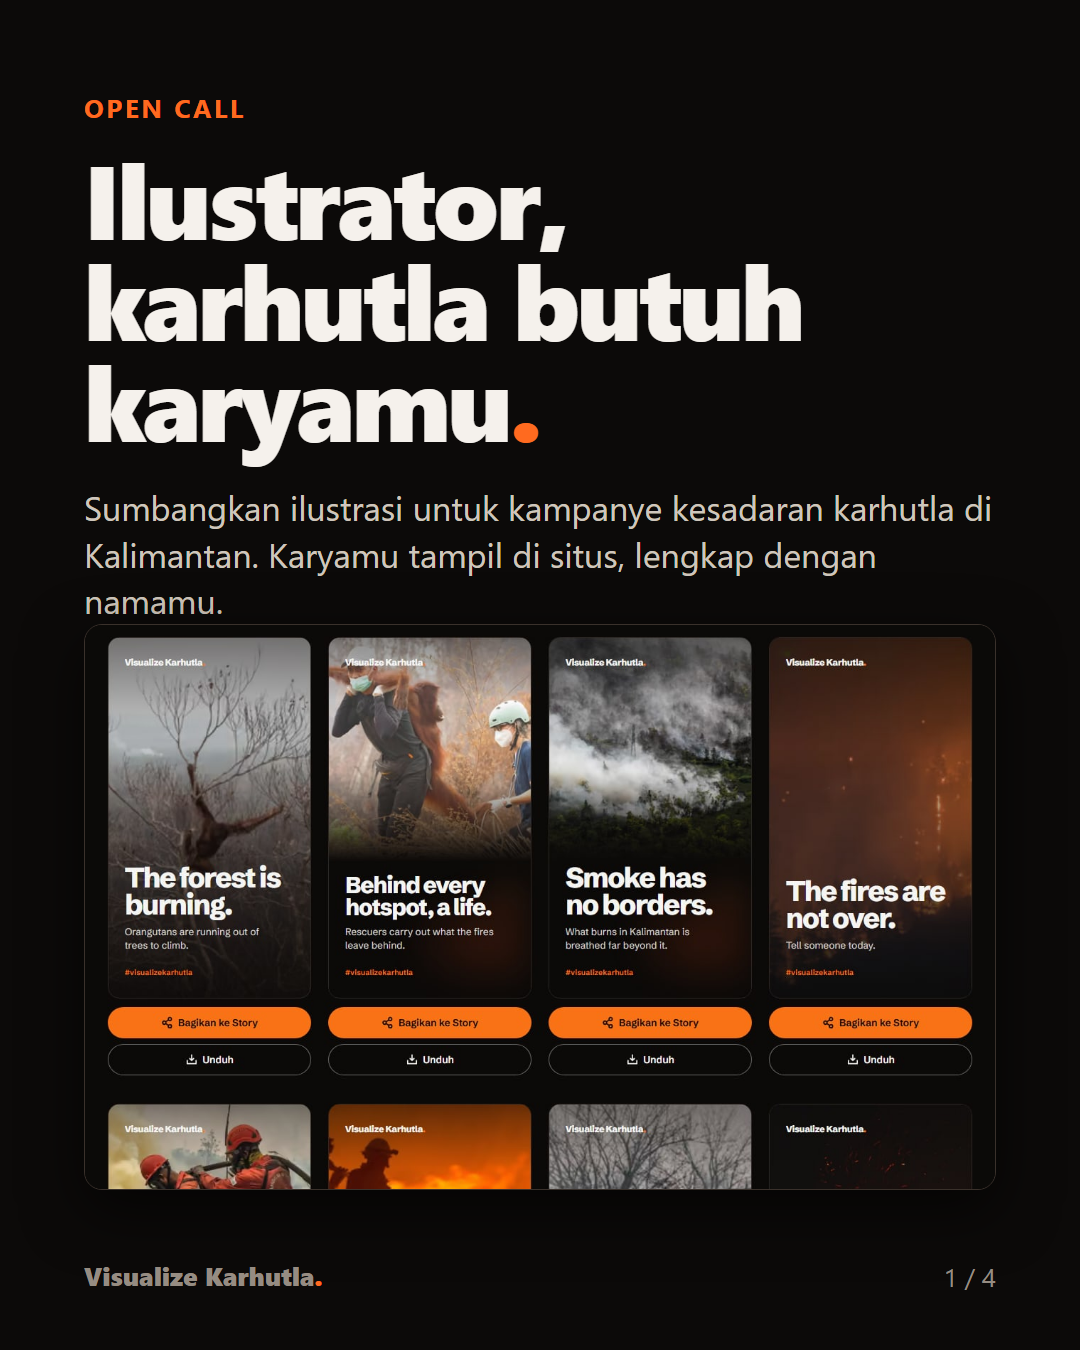
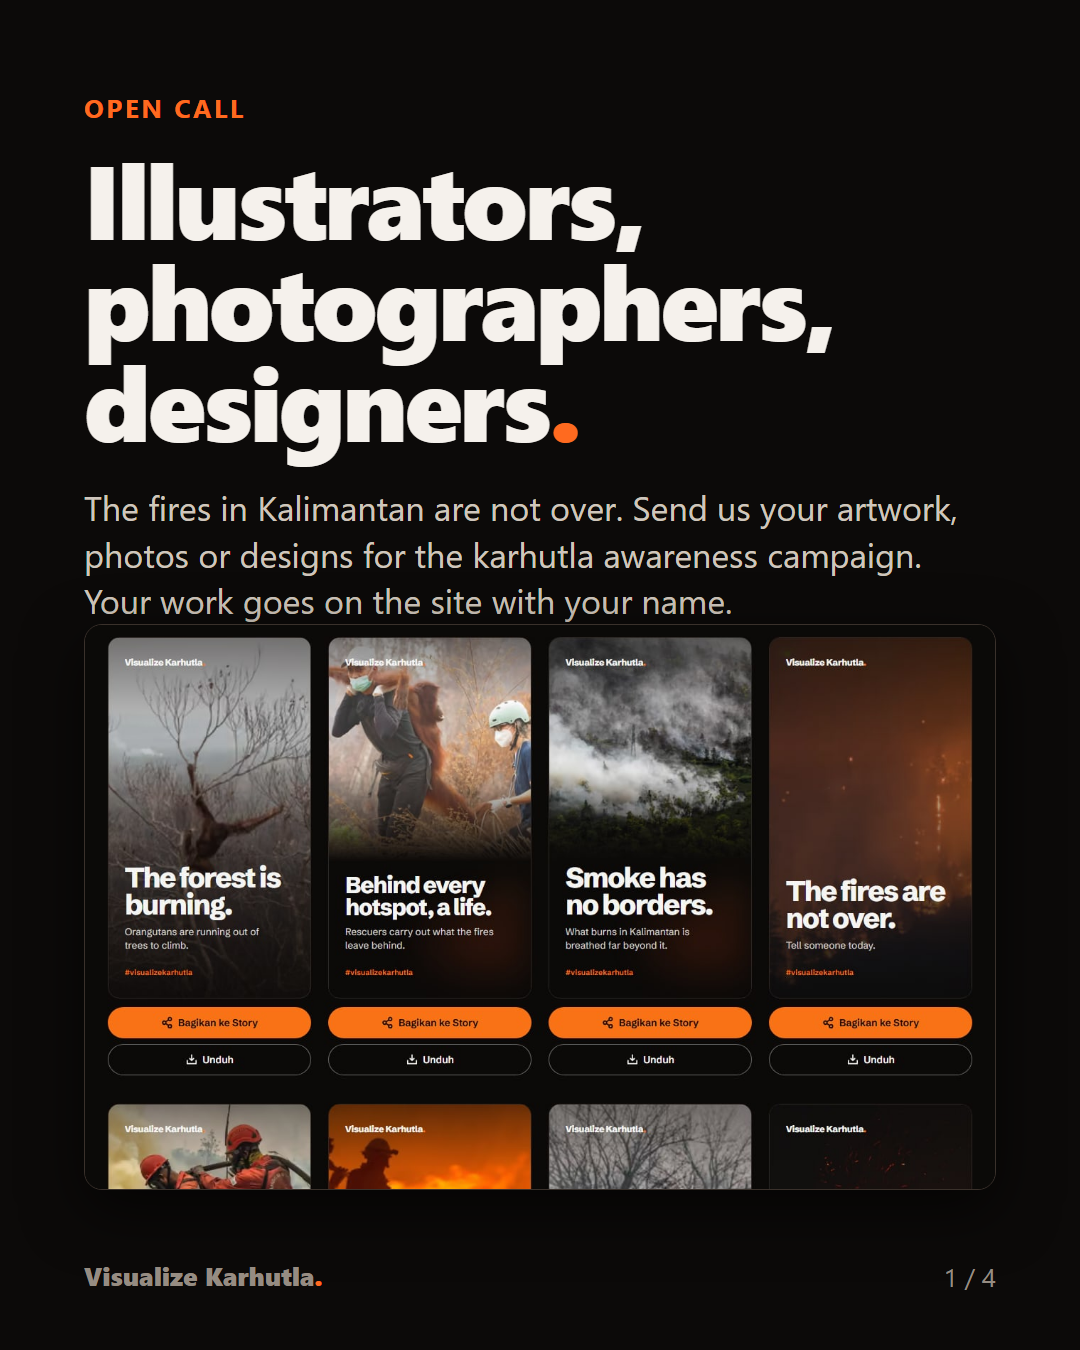
Open call: slide 1 berbahasa Inggris; ajakan mencakup fotografer dan desainer grafis

Changed region(s): [[0.0611, 0.1244, 0.9167, 0.4667]]

diff --git a/docs/outreach/slides.html b/docs/outreach/slides.html
@@ -24,8 +24,8 @@ p,li{font-size:34px;line-height:1.38;color:var(--fg2)}b{color:var(--fg)}
 .flow{display:grid;gap:18px;margin-top:44px}.flow div{display:grid;grid-template-columns:70px 1fr;gap:18px;align-items:center;background:var(--ink2);border:1px solid var(--line);border-radius:18px;padding:22px 26px}
 .flow em{font-style:normal;font-weight:800;color:var(--ember);font-size:40px}.flow p{font-size:29px}
 .url{font-size:38px;font-weight:800;color:var(--ember);border-left:8px solid var(--ember);padding-left:24px;margin-top:34px}
-</style></head><body><section class="slide"><div class="k">Open call</div><h1>Ilustrator,<br>karhutla butuh<br>karyamu<i>.</i></h1>
-<p style="margin-top:34px">Sumbangkan ilustrasi untuk kampanye kesadaran karhutla di Kalimantan. Karyamu tampil di situs, lengkap dengan namamu.</p>
+</style></head><body><section class="slide"><div class="k">Open call</div><h1>Illustrators,<br>photographers,<br>designers<i>.</i></h1>
+<p style="margin-top:34px">The fires in Kalimantan are not over. Send us your artwork, photos or designs for the karhutla awareness campaign. Your work goes on the site with your name.</p>
 <div class="shot" style="margin-top:auto;margin-bottom:70px"><img src="img/templates-grid.jpg" alt=""></div>
 <div class="wm">Visualize Karhutla<i>.</i></div><div class="pg">1 / 4</div></section><section class="slide"><div class="k">Langkah 1</div><h2>Buka halaman<br>Kontribusi<i>.</i></h2>
 <ol class="steps"><li>Buka <b>harryrosianto.github.io/visualize-karhutla/kontribusi</b></li><li>Cari <b>"Sumbang templat visual"</b>, lalu tekan <b>Kirim templat</b>.</li></ol>
@@ -39,7 +39,7 @@ p,li{font-size:34px;line-height:1.38;color:var(--fg2)}b{color:var(--fg)}
 <div class="c"><span>&#10003;</span>Karya ini buatan saya sendiri.</div><div class="c"><span>&#10003;</span>Boleh dipakai gratis untuk kampanye karhutla dengan kredit.</div></div>
 <p class="cap">Ilustrasi kolom formulir (bukan tangkapan layar asli). Perlu akun GitHub gratis.</p>
 <div class="wm">Visualize Karhutla<i>.</i></div><div class="pg">3 / 4</div></section><section class="slide"><div class="k">Ketentuan dan alur</div><h2>Bebas ukuran,<br>ditinjau dulu<i>.</i></h2>
-<div class="rules"><div><b>Ukuran dan rasio bebas</b><p>Story 9:16, lanskap desktop, atau lainnya. PNG, JPG, WebP, GIF; maksimal 12 MB.</p></div></div>
+<div class="rules"><div><b>Ilustrasi, foto, atau desain</b><p>Ukuran dan rasio bebas: Story 9:16, lanskap desktop, atau lainnya. PNG, JPG, WebP, GIF; maksimal 12 MB.</p></div></div>
 <div class="flow"><div><em>1</em><p><b>Kirim</b> formulirmu di GitHub.</p></div><div><em>2</em><p><b>Ditinjau</b> pemelihara sebelum tayang.</p></div><div><em>3</em><p><b>Tayang</b> di halaman Templat Story dengan namamu.</p></div></div>
 <div class="url">harryrosianto.github.io/visualize-karhutla/templat</div>
 <div class="wm">#visualizekarhutla</div><div class="pg">4 / 4</div></section></body></html>

diff --git a/docs/outreach/thread.md b/docs/outreach/thread.md
@@ -1,4 +1,4 @@
-# Open call untuk ilustrator: thread (X / Threads)
+# Open call untuk ilustrator, fotografer, dan desainer: thread (X / Threads)
 
 **Lampiran:** `img/slide-1.png` sampai `img/slide-4.png` pada postingan pertama (X menerima 4 gambar; Threads juga bisa carousel). Postingan lain hanya teks.
 
@@ -9,17 +9,17 @@ Batas X: 280 karakter per postingan (tautan dihitung 23). Semua postingan di baw
 **1/6**
 
 ```
-Panggilan untuk ilustrator 🎨
+Panggilan untuk ilustrator, fotografer, dan desainer grafis 🎨📷
 
 Karhutla di Kalimantan belum berakhir: 252.279 titik panas terdeteksi sepanjang 2026 (NASA FIRMS, per 12 Oktober).
 
-Kami butuh karyamu agar lebih banyak orang peduli. Karyamu tampil di situs, lengkap dengan namamu. 🧵
+Kami butuh karyamu agar lebih banyak orang peduli. Karya tampil di situs lengkap dengan namamu. 🧵
 ```
 
 **2/6**
 
 ```
-Yang kami cari: ilustrasi atau desain bertema karhutla, hutan, gambut, satwa, atau udara bersih.
+Yang kami cari: ilustrasi, foto, atau desain bertema karhutla, hutan, gambut, satwa, atau udara bersih.
 
 Ukuran dan rasio bebas: Story IG 9:16, banner lanskap, atau lainnya. Format PNG, JPG, WebP, atau GIF, maksimal 12 MB.
 ```
@@ -60,7 +60,7 @@ Ketentuan singkat:
 Siap ikut? Kirim karyamu di sini:
 https://harryrosianto.github.io/visualize-karhutla/templat
 
-Tag ilustrator yang kamu kenal, dan repost supaya sampai ke mereka.
+Tag ilustrator, fotografer, atau desainer yang kamu kenal, dan repost supaya sampai ke mereka.
 
 #visualizekarhutla
 ```
@@ -70,7 +70,7 @@ Tag ilustrator yang kamu kenal, dan repost supaya sampai ke mereka.
 **1/6**
 
 ```
-Calling all illustrators 🎨
+Calling illustrators, photographers and graphic designers 🎨📷
 
 Kalimantan's fires are not over: 252,279 hotspots detected in 2026 so far (NASA FIRMS, as of 12 Oct).
 
@@ -80,7 +80,7 @@ We need your artwork to help more people care. It goes on the site with your nam
 **2/6**
 
 ```
-What we are looking for: illustrations or designs about wildfires, forests, peat, wildlife, or clean air.
+What we are looking for: illustrations, photos or designs about wildfires, forests, peat, wildlife, or clean air.
 
 Any size or ratio: IG Story 9:16, landscape banner, anything. PNG, JPG, WebP or GIF, up to 12 MB.
 ```
@@ -121,7 +121,7 @@ The short rules:
 Ready? Submit your artwork here:
 https://harryrosianto.github.io/visualize-karhutla/templat
 
-Tag an illustrator you know, and repost so it reaches them.
+Tag an illustrator, photographer or designer you know, and repost so it reaches them.
 
 #visualizekarhutla
 ```
